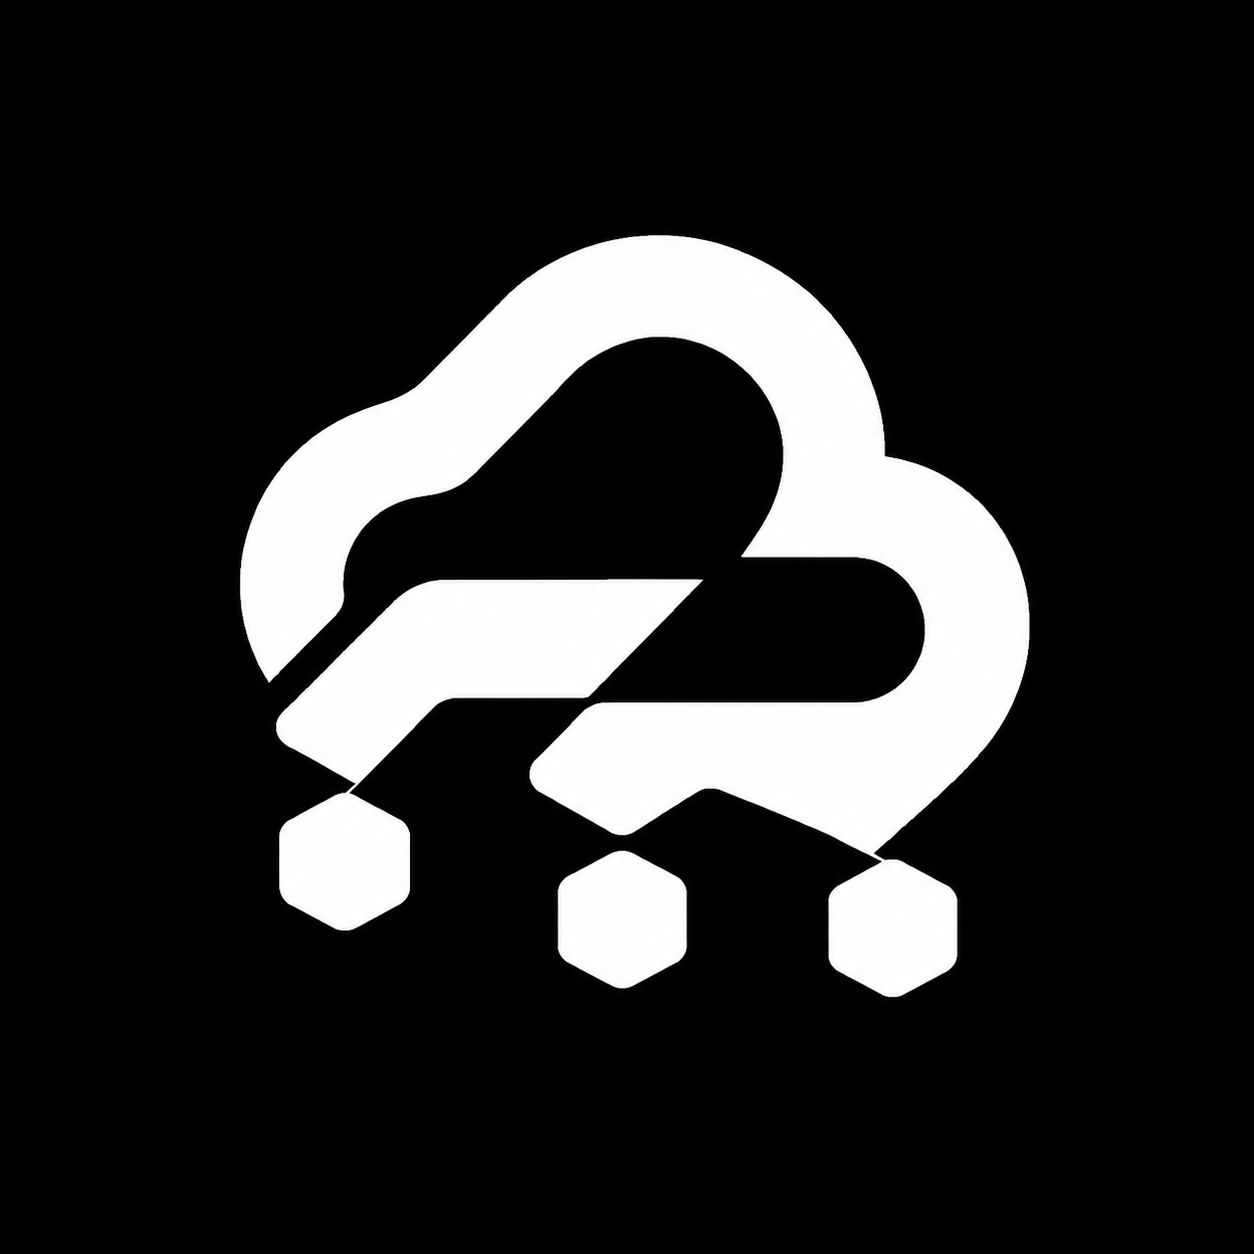
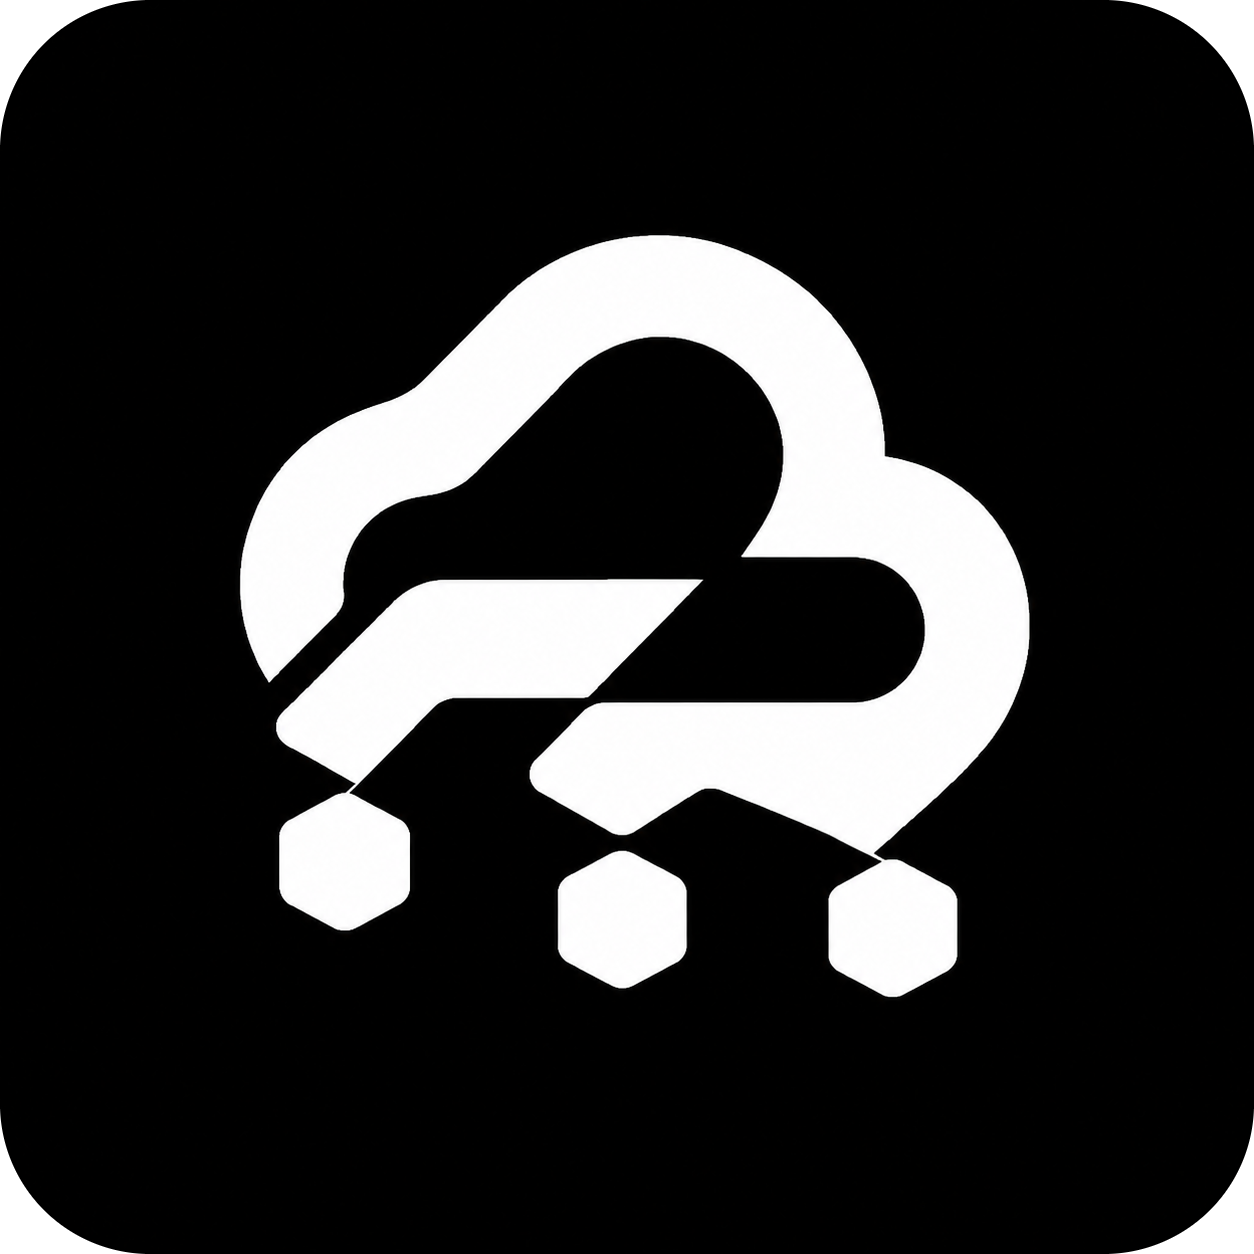
Improved styles & solved some loop blocks

diff --git a/frontend/css/pages.css b/frontend/css/pages.css
@@ -238,7 +238,7 @@
   transition: color var(--transition);
 }
 
-.app-card:hover .app-name { color: var(--accent); transition: color var(--transition); }
+.app-card:hover .app-name { color: var(--text-primary); transition: color var(--transition); }
 
 .app-type-label { font-size: 11px; color: var(--text-secondary); text-transform: capitalize; margin-top: 2px; }
 
@@ -772,7 +772,7 @@
   padding: 11px 28px;
   border-bottom: 1px solid var(--border);
   flex-shrink: 0;
-  background: rgba(10, 16, 30, 0.7);
+  background: rgba(16, 16, 16, 0.85);
 }
 
 .settings-bar-title {
@@ -986,7 +986,7 @@
   margin-top: 4px;
 }
 
-.add-env-btn:hover { color: #79c0ff; }
+.add-env-btn:hover { color: var(--text-primary); }
 
 .action-grid {
   display: grid;

diff --git a/backend/database.py b/backend/database.py
@@ -108,6 +108,11 @@ async def init_db():
                 f"ALTER TABLE node_commands ADD COLUMN {col} {definition}"
             )
 
+        # nodes — index auth_token for fast per-request token lookups
+        await conn.exec_driver_sql(
+            "CREATE INDEX IF NOT EXISTS ix_nodes_auth_token ON nodes (auth_token)"
+        )
+
         # audit_logs — new table, created by create_all above; ensure composite index
         await conn.exec_driver_sql(
             "CREATE INDEX IF NOT EXISTS ix_audit_logs_app_ts "

diff --git a/backend/process_manager.py b/backend/process_manager.py
@@ -284,8 +284,9 @@ def find_process_by_port(port: int) -> Optional[int]:
 def get_process_stats(pid: int) -> dict:
     try:
         proc = psutil.Process(pid)
-        # cpu_percent must be called outside oneshot(); interval=0.5 gives a real measurement
-        cpu = proc.cpu_percent(interval=0.5)
+        # interval=None is non-blocking: returns delta since last call (or 0.0 on first call).
+        # The background stats loop calls this periodically, so values stay fresh without blocking.
+        cpu = proc.cpu_percent(interval=None)
         mem = proc.memory_info()
         uptime = int(time.time() - proc.create_time())
 

diff --git a/backend/models.py b/backend/models.py
@@ -64,7 +64,7 @@ class Node(Base):
     status = Column(String(20), default="online")  # online | offline | unknown
     api_base_url = Column(String(500), nullable=True)
     public_host = Column(String(255), nullable=True)
-    auth_token = Column(String(200), nullable=True)
+    auth_token = Column(String(200), nullable=True, index=True)
     is_local = Column(Boolean, default=False)
     enabled = Column(Boolean, default=True)
     capabilities = Column(Text, nullable=True)  # JSON dict

diff --git a/backend/routers/applications.py b/backend/routers/applications.py
@@ -3413,7 +3413,7 @@ async def get_stats(app_id: int, db: AsyncSession = Depends(get_db)):
             return {"status": "running", "docker": True, **stats}
         return {"status": "stopped", "docker": True}
     if app.pid and pm.is_process_running(app.pid, app.id):
-        stats = pm.get_process_stats(app.pid)
+        stats = await asyncio.to_thread(pm.get_process_stats, app.pid)
         return {"status": "running", **stats}
     return {"status": "stopped"}
 